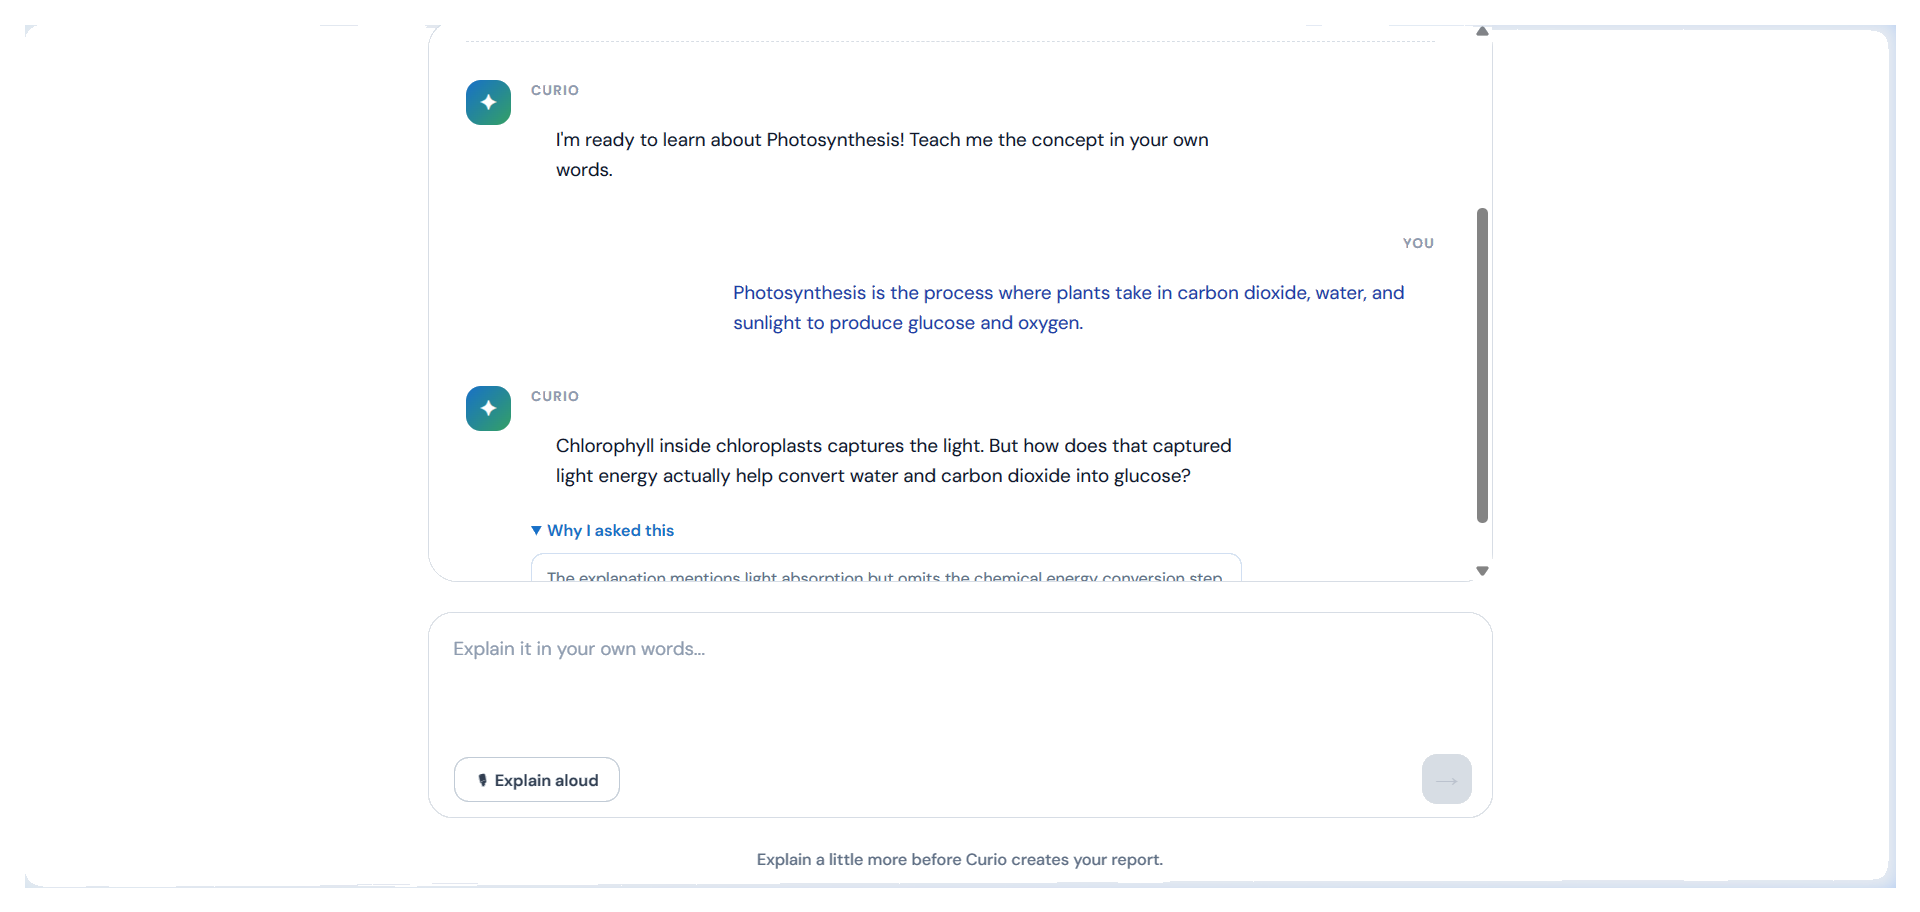
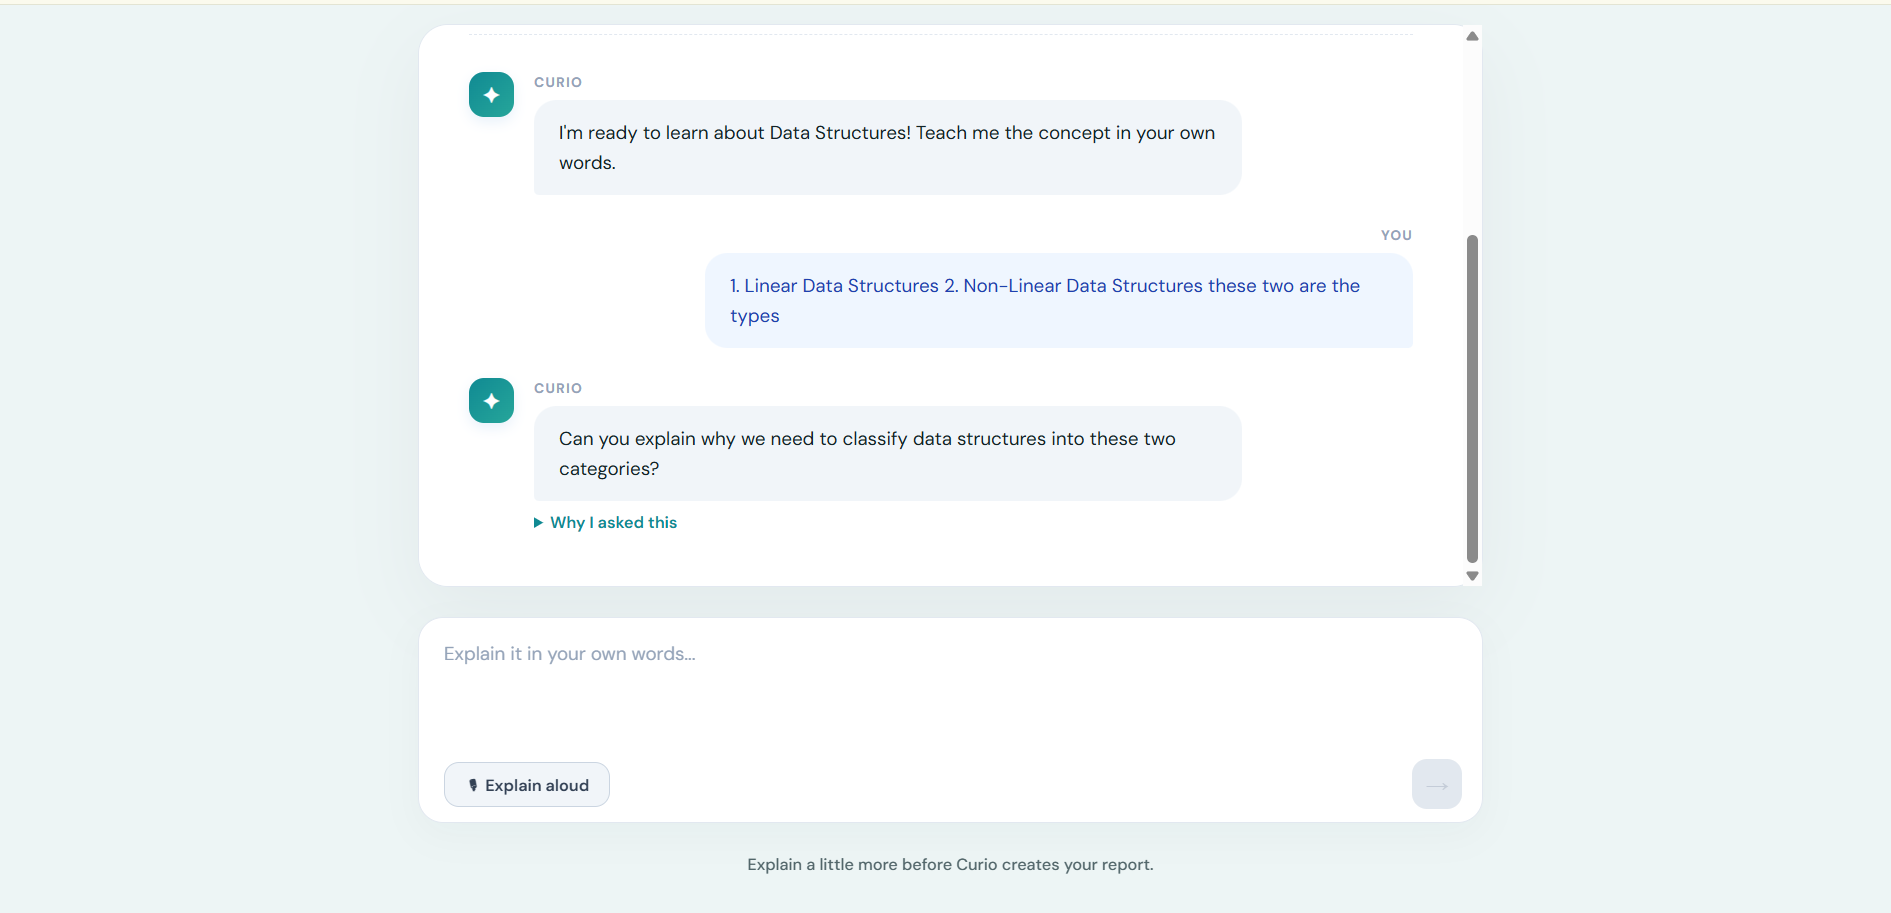
style: enlarge hero screenshot size on landing page

diff --git a/frontend/src/App.css b/frontend/src/App.css
@@ -260,8 +260,8 @@ button:disabled {
   margin: 0 auto;
   padding: 0 24px;
   display: grid;
-  grid-template-columns: 0.95fr 1.05fr;
-  gap: 50px;
+  grid-template-columns: 0.8fr 1.2fr;
+  gap: 60px;
   align-items: center;
 }
 
@@ -374,6 +374,8 @@ button:disabled {
   display: flex;
   flex-direction: column;
   gap: 24px;
+  transform: scale(1.12);
+  transform-origin: center right;
 }
 
 .mockup-chat-container {
